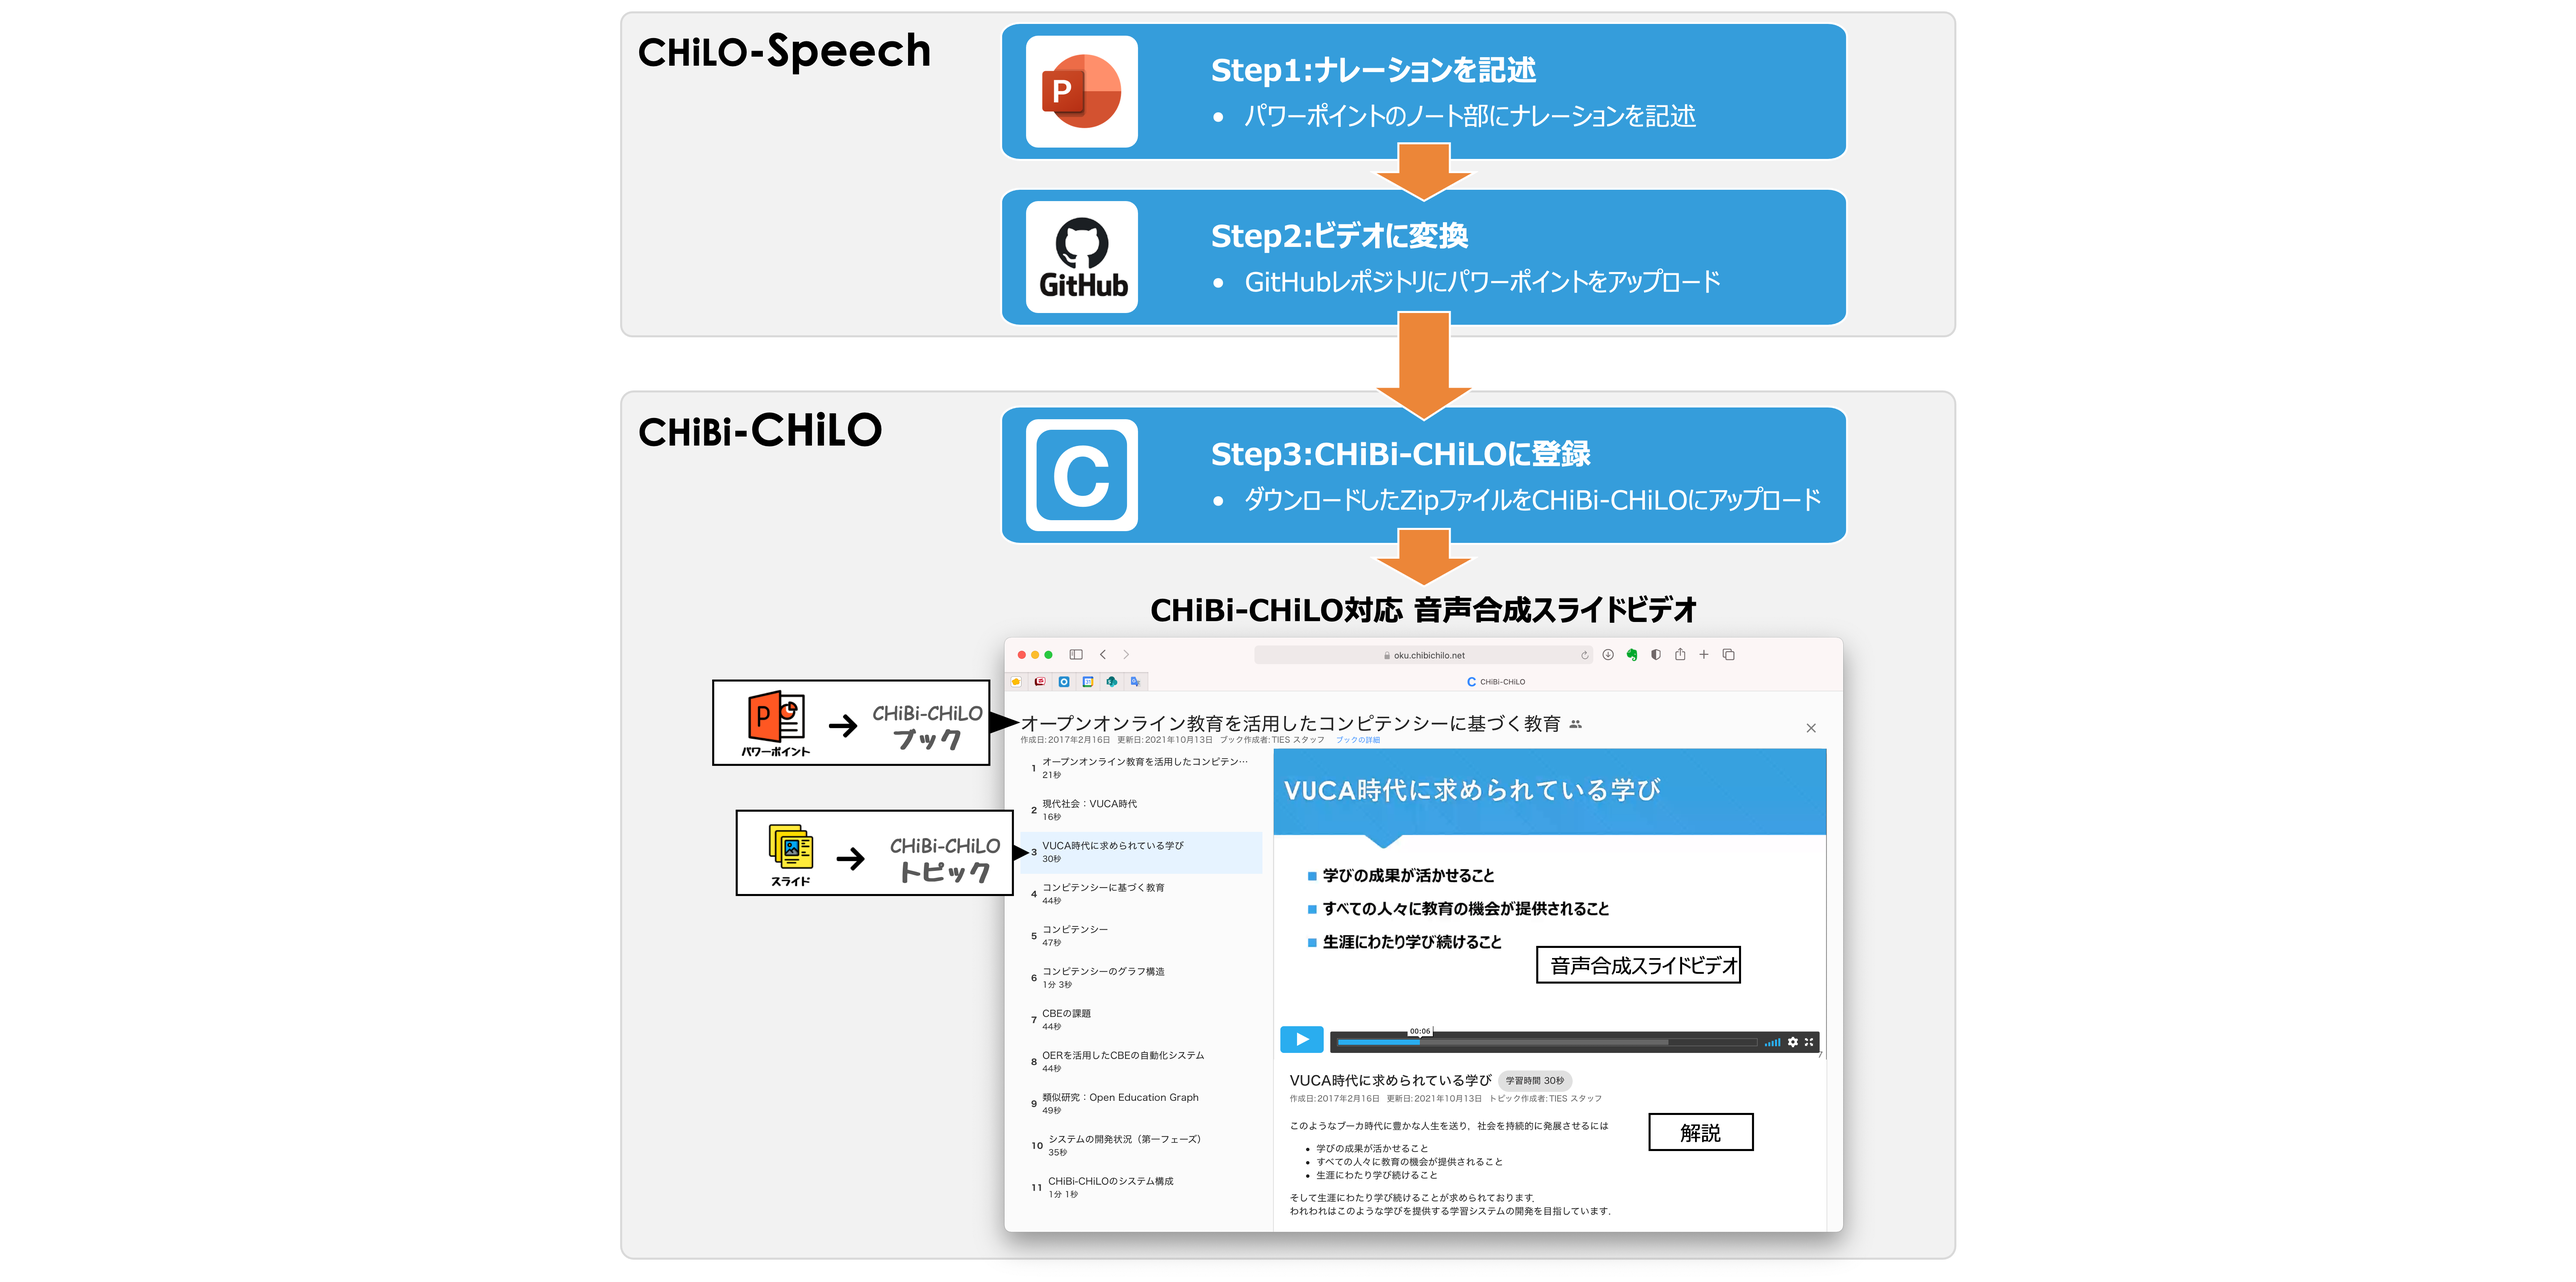
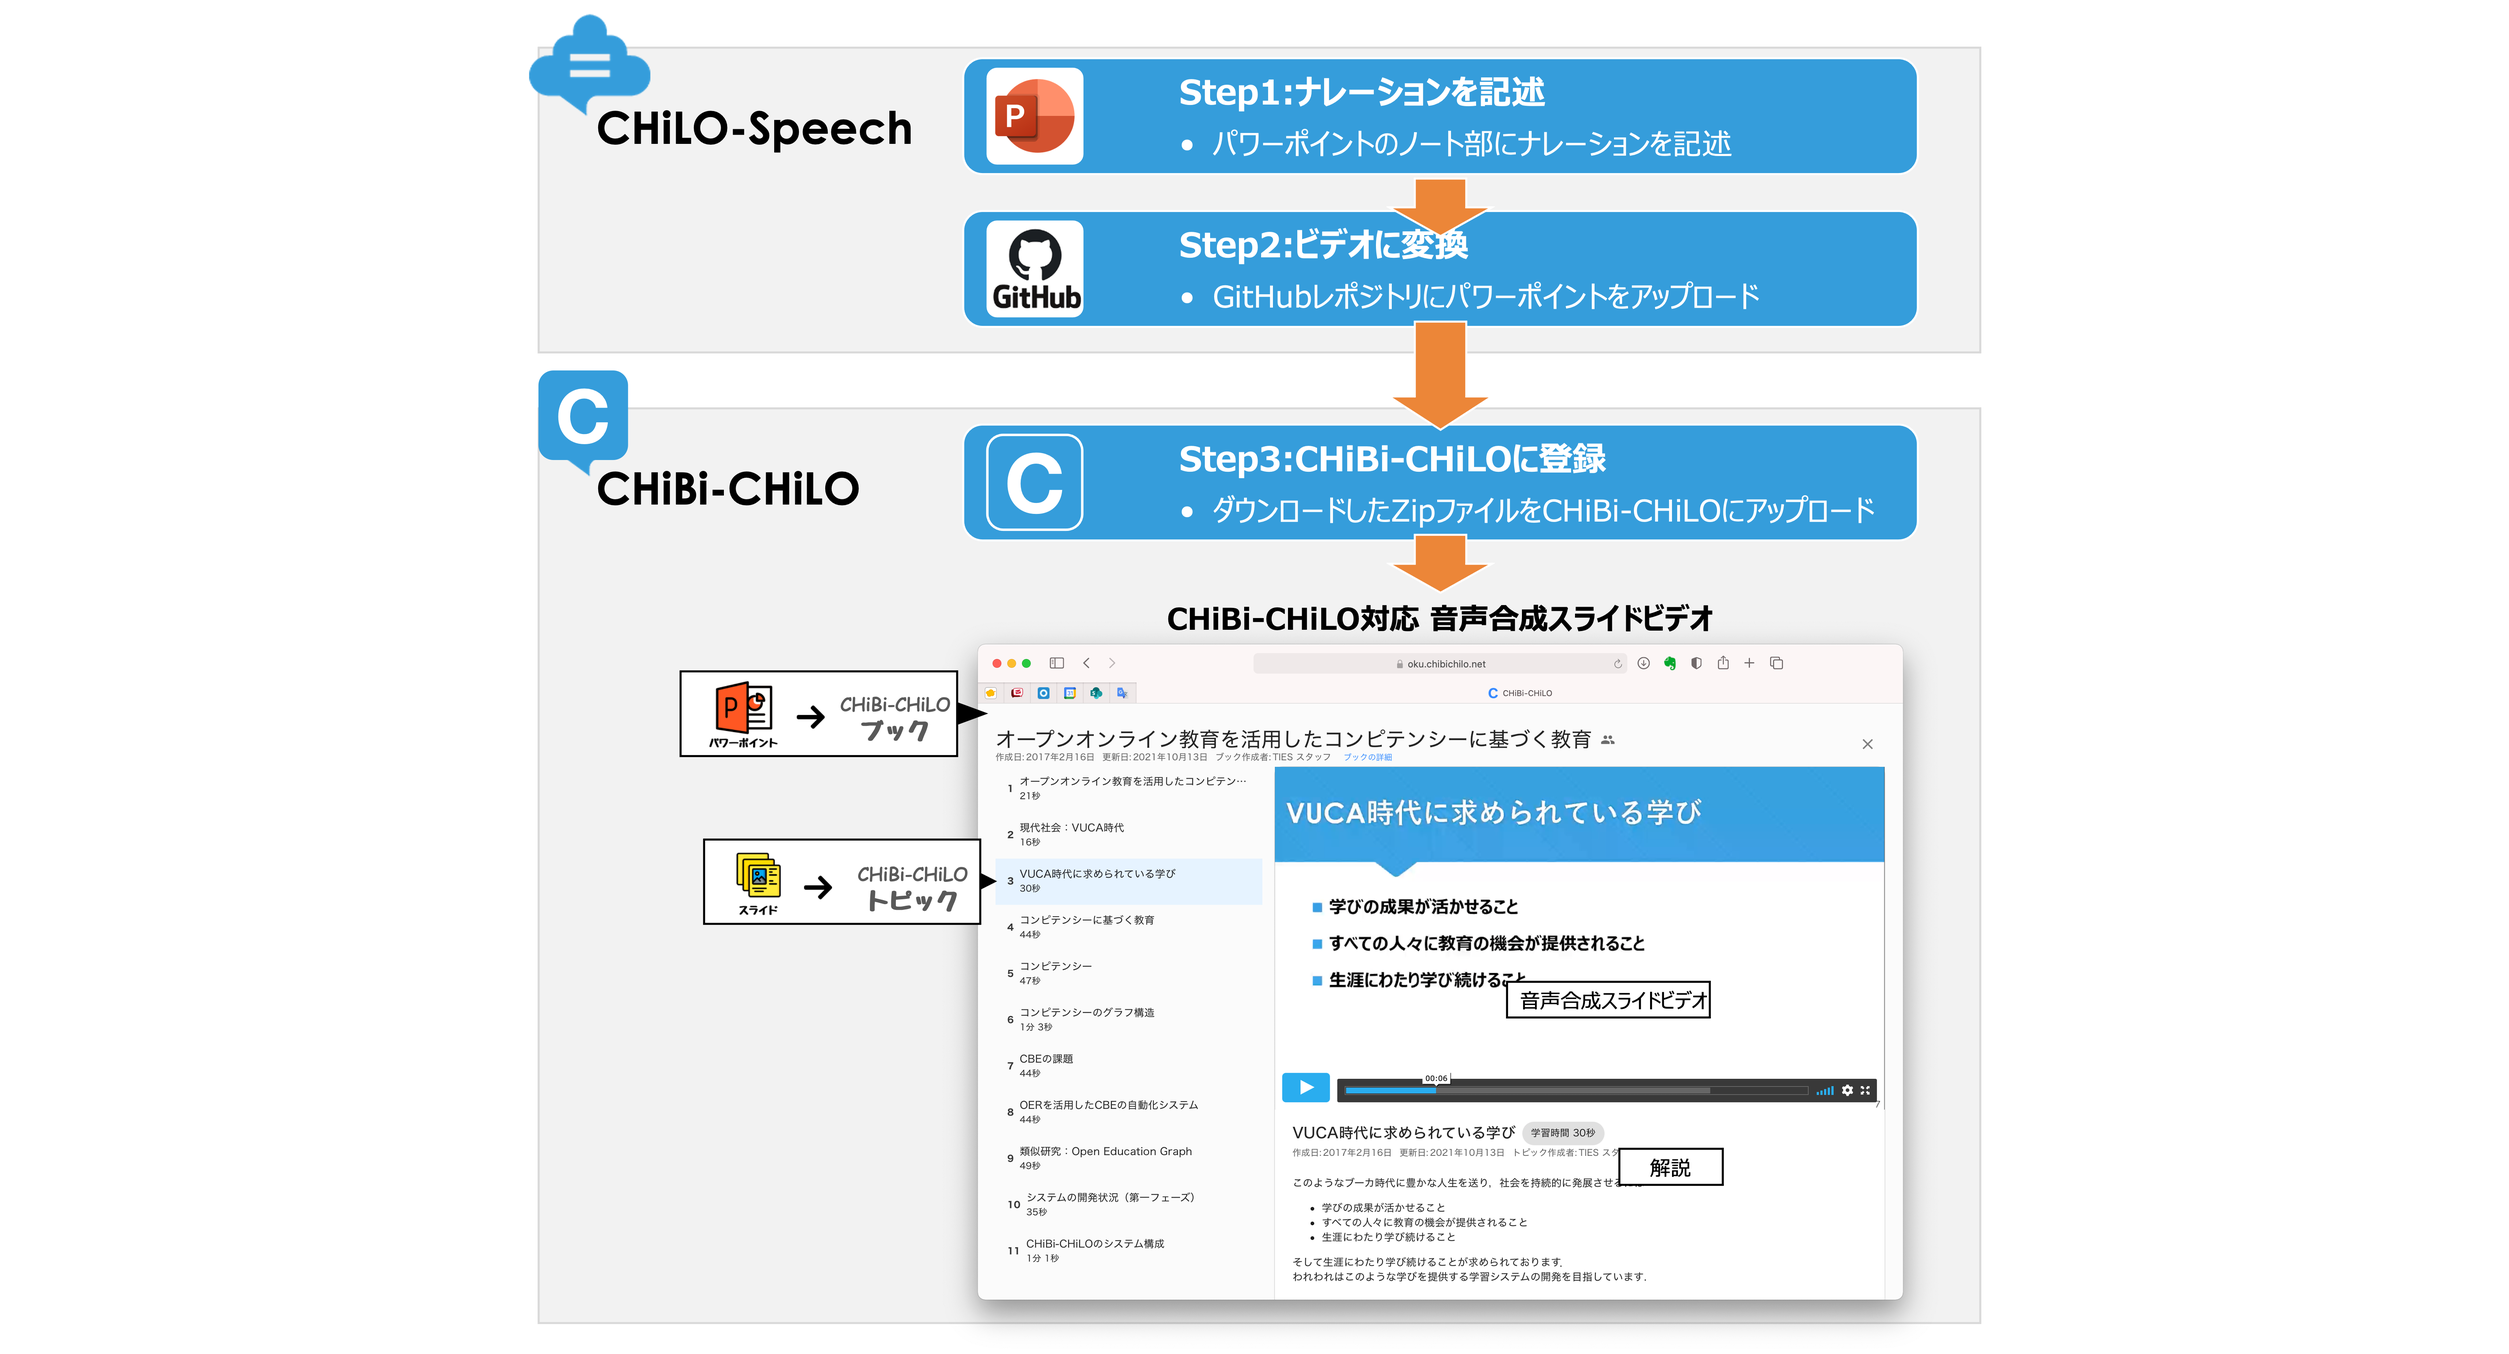
ロゴの追加

Changed region(s): [[0.1872, 0.0, 0.7799, 0.9918]]

diff --git a/README.md b/README.md
@@ -1,4 +1,4 @@
-# CHiLO-Speech
+# ![CHiLO-Speech概要](docs/assets/chilospeech.png)CHiLO-Speech
 
 ## 1. Introduction
 
@@ -51,7 +51,6 @@ CHiLO-Speechのシステム構成は，以下の通りです．
 
 
 ### (2) 本リポジトリの構成
-
 
 ```
 /
